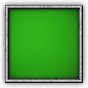
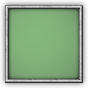
UI, backgrounds

diff --git a/Assets/GameManager.js b/Assets/GameManager.js
@@ -20,6 +20,12 @@ var verseManager : VerseManager;
 var verseMetadata : Hashtable;
 var timeUntilHint : int ;
 var exitButton : BoxCollider2D;
+var background : SpriteRenderer;
+var bgSprite1 : Sprite;
+var bgSprite2 : Sprite;
+var bgSprite3 : Sprite;
+var bgSprite4 : Sprite;
+var bgSprite5 : Sprite;
 
 private var wordHinted : boolean = false;
 
@@ -108,6 +114,21 @@ function Start () {
 	SetupWalls();
 	SetupUI();
 	SetupVerse();
+	SetupBackground();
+}
+
+function SetupBackground() {
+	var index : int = Random.Range(0,5);
+	var sprite : Sprite = bgSprite1;
+	
+	switch (index) {
+		case 0: sprite = bgSprite1; break;
+		case 1: sprite = bgSprite2; break;
+		case 2: sprite = bgSprite3; break;
+		case 3: sprite = bgSprite4; break;
+		case 4: sprite = bgSprite5; break;
+	}
+	background.sprite = sprite;
 }
 
 function SetVerseReference (reference : String) {

diff --git a/Assets/TitleManager.js b/Assets/TitleManager.js
@@ -10,7 +10,9 @@ function OnGUI() {
 	var style : GUIStyle = customSkin.button;
 	var enabled : boolean = true;
 	
-	Screen.SetResolution(1024, 768, false);
+	if (Screen.width > 1024) {
+		Screen.SetResolution(1024, 768, false);
+	}
 	
 	GUI.skin = customSkin;
 	var buttonSize = new Vector2(170,60);

diff --git a/Assets/ExitButton.js b/Assets/ExitButton.js
@@ -7,6 +7,9 @@ function OnMouseDown() {
 	Application.LoadLevel("verselist");
 }
 
+function OnMouseUp() {
+}
+
 function Start () {
 
 }
